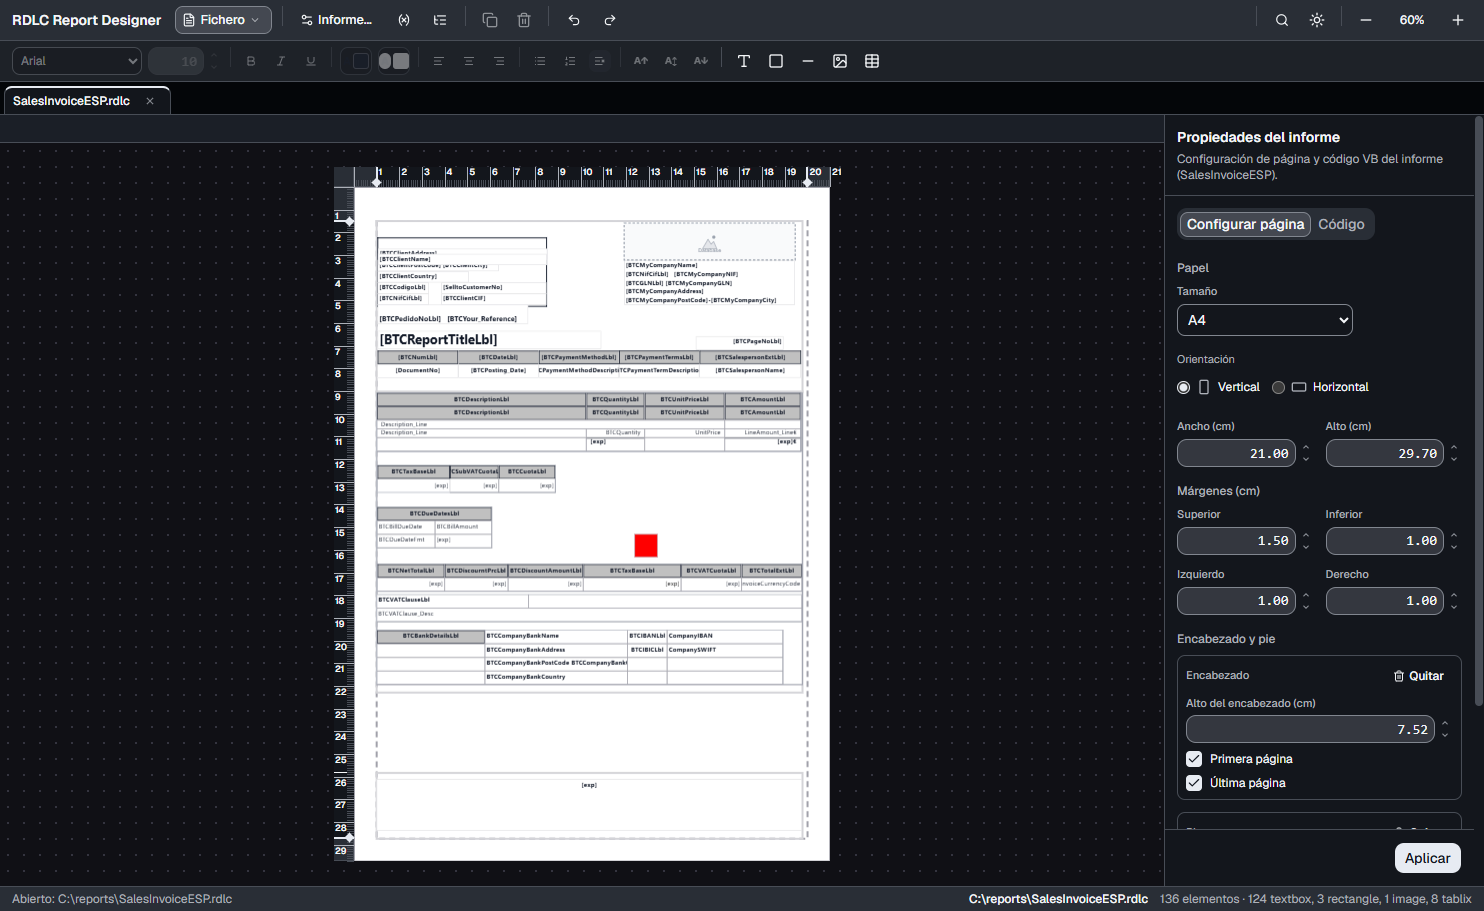
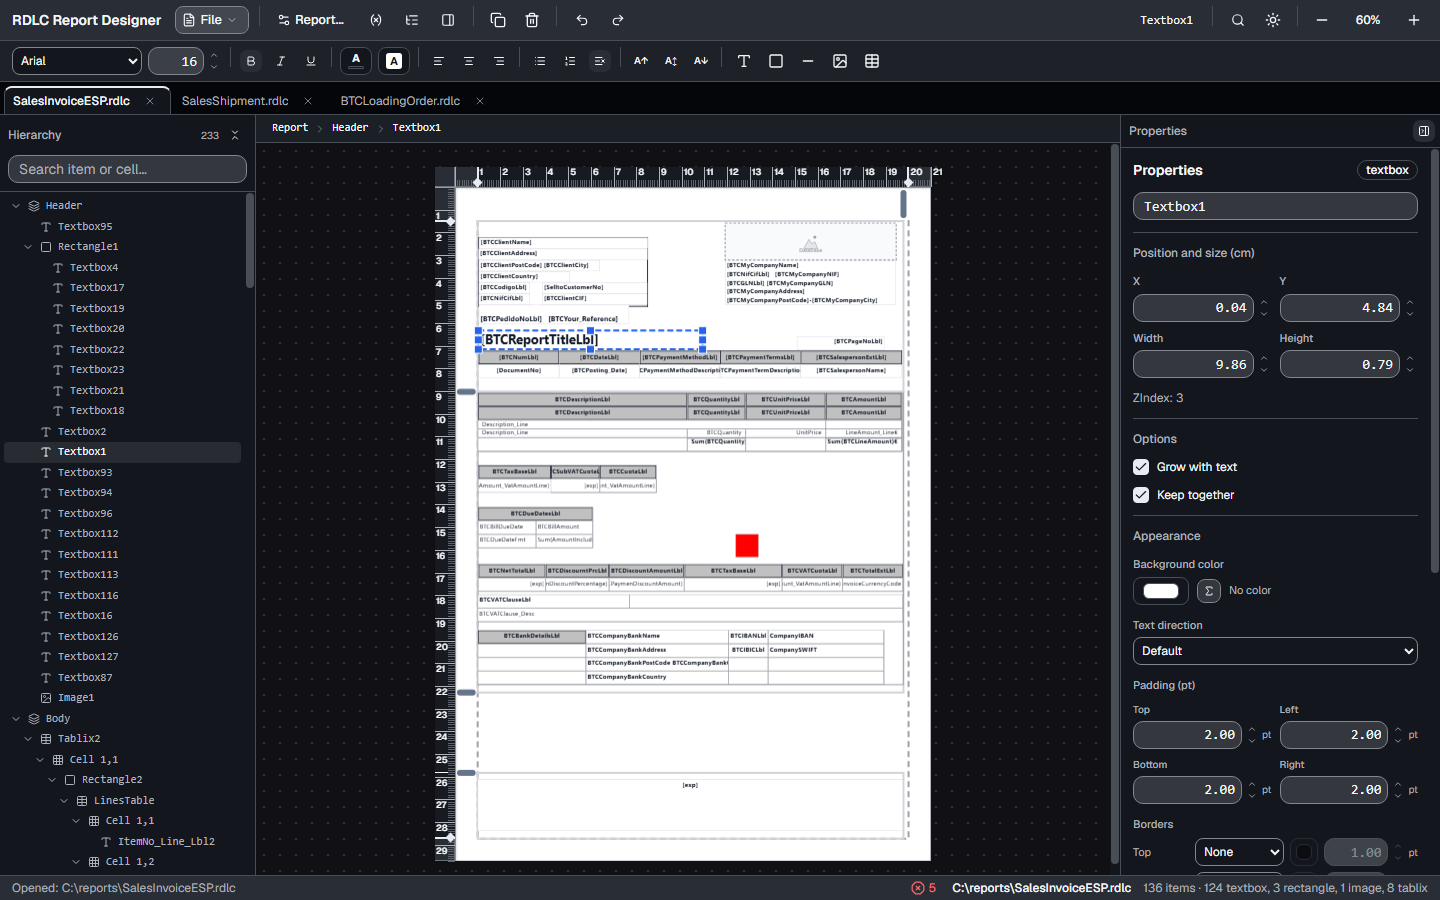
feat(docs): update README and add new screenshots for enhanced visuals

diff --git a/README.md b/README.md
@@ -5,9 +5,9 @@
 **Visual editor for Business Central `.rdlc` and SSRS `.rdl` reports.**
 A modern alternative to Report Builder: edit the layout with your mouse and get XML that saves **without altering anything you didn't touch**.
 
-**RDCL Report Designer MCP server:** let an AI agent (Claude Code, Claude Desktop, Cursor…) create and edit reports without opening the app — [setup](#mcp-server--edit-reports-from-an-agent).
+**RDLC Report Designer MCP server:** let an AI agent (Claude Code, Claude Desktop, Cursor…) create and edit reports without opening the app — [setup](#mcp-server--edit-reports-from-an-agent).
 
-![Version](https://img.shields.io/badge/version-0.7.0-blue)
+![Version](https://img.shields.io/badge/version-0.8.3-blue)
 ![Platform](https://img.shields.io/badge/platform-Windows-0078D4?logo=windows&logoColor=white)
 [![License: MIT](https://img.shields.io/badge/license-MIT-green.svg)](./LICENSE)
 
@@ -21,7 +21,7 @@ A modern alternative to Report Builder: edit the layout with your mouse and get 
 
 <picture>
   <source media="(prefers-color-scheme: dark)" srcset="docs/assets/screenshot-dark.png">
-  <img alt="RDLC Report Designer: canvas with an invoice report, tabs and properties panel" src="docs/assets/screenshot-light.png" width="920">
+  <img alt="RDLC Report Designer: three reports open in tabs, the Hierarchy panel, an invoice on the canvas and the Properties panel" src="docs/assets/screenshot-light.png" width="920">
 </picture>
 
 </div>
@@ -30,26 +30,59 @@ A modern alternative to Report Builder: edit the layout with your mouse and get 
 
 ## Why
 
-Microsoft Report Builder in my point of view is old, that lacks basic user experience features. With RDLC Report Designer i try to fill some gaps that i find in my day a day working with rdlc/rdl reports. The core idea behind this software are:
+In my point of view, Microsoft Report Builder is old and lacks basic user experience features. With RDLC Report Designer I try to fill some gaps that I find in my day-to-day work with rdlc/rdl reports. The core ideas behind this software are:
 
 - Offer modern features that greatly improve the user experience while designing reports, features like tabs, VB IntelliSense, elements hierarchy and so on...
-- Offer coding agents a MCP that saves tokens and improves agents understanding of the report.
-- Compability with what **Report Builder and BC** expect when opening the report.
+- Offer coding agents an MCP that saves tokens and improves the agent's understanding of the report.
+- Compatibility with what **Report Builder and BC** expect when opening the report.
 
-## Features
+## What's new compared to Report Builder
 
-| Area                         | What it includes                                                                                                                                                                   |
-| ---------------------------- | ---------------------------------------------------------------------------------------------------------------------------------------------------------------------------------- |
-| **Faithful to the file**     | _Lossless_ XML as the source of truth: byte-for-byte.                                        |
-| **Canvas**                   | Paper, margins and bands, mm/cm rulers, snapping, 1 pt / 10 pt arrows, zoom up to 400 %, multi-selection (move, align/distribute and block resize), 8 handles, z-order, viewport culling (≈60 fps with ~1000 textboxes).     |
-| **Full Tablix**              | Cells, rows and columns, merge/split cells, row and column groups (Matrix), visibility, filters...                         |
-| **Text and style**           | Runs and paragraphs with `run > paragraph > item` precedence, format bar, fonts available in BC, per-side borders, padding, literal or expression background color, number format. |
-| **Expressions**              | Highlighting and autocomplete for expressions and code.                                                             |
-| **Productivity**             | Command palette <kbd>Ctrl</kbd>+<kbd>K</kbd> and search tablix, textbox, rectangles, images in the report. 2 new panels list variables and hierarchy.                                |
-| **Multiple reports at once** | One tab per report. Work with multiples tabs in the same instance instead of opening multiple times the same app.                                                                    |
-| **Resilient**                | Live reload if the file changes outside, conflict warning when saving and deleted-file warning.                                                         |
-| **Formats**                  | Business Central `.rdlc` and SSRS `.rdl` (2016/01 schema).                                                                                                                         |
-| **Agent connection**         | MCP server for code agents. Instead of reading and editing the `.rdlc`/`.rdl` files which is token expensive, the mcp exposes the right tools that lets the agent understand and efficiently edit the report. |
+The canvas, tablix, text and styles work much like they do in Report Builder. This section only covers what Report Builder doesn't have.
+
+### Tabs and dark mode
+
+The screenshot above shows both. Each report opens in its own tab, so one window holds all your reports: unsaved reports are marked with `*`, <kbd>Ctrl</kbd>+<kbd>Tab</kbd> switches between them, and right-clicking a tab closes the other tabs or only the saved ones. The moon/sun button in the toolbar switches between the light and dark themes (the screenshot follows your GitHub theme).
+
+### Command palette
+
+<kbd>Ctrl</kbd>+<kbd>K</kbd> searches every editor action, every item in the report and every variable by name. Pick an item and the canvas selects it and scrolls to it.
+
+<img alt="Command palette searching for “line”: the Insert line and Underline actions, then the report items whose name contains line" src="docs/assets/palette.png" width="432">
+
+### Hierarchy and Variables panels
+
+**Hierarchy** shows every item as a tree (header, body, footer, rectangles, tablix cells) and follows the canvas selection. **Variables** lists the dataset fields, parameters, `Code.` functions with their arguments, `Globals!` and `User!`. Both panels have a search box.
+
+<img alt="Hierarchy panel with Textbox1 selected, next to the Variables panel filtered by “Total”" src="docs/assets/panels.png" width="545">
+
+### Expression editor with autocomplete
+
+Expressions get syntax highlighting, line numbers and autocomplete for fields, parameters, `Code.` functions, `Globals!`, `User!` and RDL functions. <kbd>Ctrl</kbd>+<kbd>Enter</kbd> applies the change.
+
+<img alt="Visibility expression editor suggesting dataset fields that start with BTCComp" src="docs/assets/expression-editor.png" width="704">
+
+### VB code editor
+
+The report's `<Code>` block opens in the same editor instead of a plain text box: VB highlighting, line numbers and the same autocomplete. Open it from **Report… → Code**.
+
+<img alt="Report properties dialog, Code tab, with the report's VB functions highlighted" src="docs/assets/report-code.png" width="704">
+
+### Problems panel
+
+The app checks the report's expressions for dataset fields that don't exist, references to report items that don't exist and unbalanced brackets. The status bar shows how many problems there are. Click a problem to select the item it belongs to.
+
+<img alt="Problems panel listing fields that don't exist in the dataset, with the item and property of each one" src="docs/assets/problems.png">
+
+### Live reload and conflict warnings
+
+When the file changes on disk (for example after compiling the AL project), the open report reloads by itself. If you have unsaved changes, the app keeps them and asks which version to keep instead of overwriting either one. If the file is deleted, saving creates it again.
+
+<img alt="Warning that the file changed on disk while the report had unsaved changes, with Save as, Save and overwrite, Reload from disk and Not now" src="docs/assets/conflict.png">
+
+### English and Spanish
+
+The interface follows the Windows language (English or Spanish). To switch, open <kbd>Ctrl</kbd>+<kbd>K</kbd> and pick **Switch language**.
 
 ## Installation
 
@@ -205,7 +238,17 @@ Current result: **59.5–59.9 fps p50** with 972 textboxes (budget 60). Details 
 <details>
 <summary><b>QA mode: screenshots and scripts against the real app</b></summary>
 
-Electron can open a report, run a script in the renderer and take a screenshot without touching anything by hand. That's how the screenshots in this README were generated.
+Electron can open a report, run a script in the renderer and take a screenshot without touching anything by hand.
+
+The screenshots in this README come from a Playwright script that drives the real app in English. Regenerate them after UI changes:
+
+```bash
+pnpm --filter @rdlc-designer/back build:e2e
+node apps/back/scripts/readme-screenshots.mjs docs/assets            # all scenes
+node apps/back/scripts/readme-screenshots.mjs docs/assets palette    # only some (comma-separated)
+```
+
+For one-off captures, use these environment variables instead:
 
 ```powershell
 $env:RDLC_OPEN='C:\path\to\report.rdlc'     # file to open at startup
